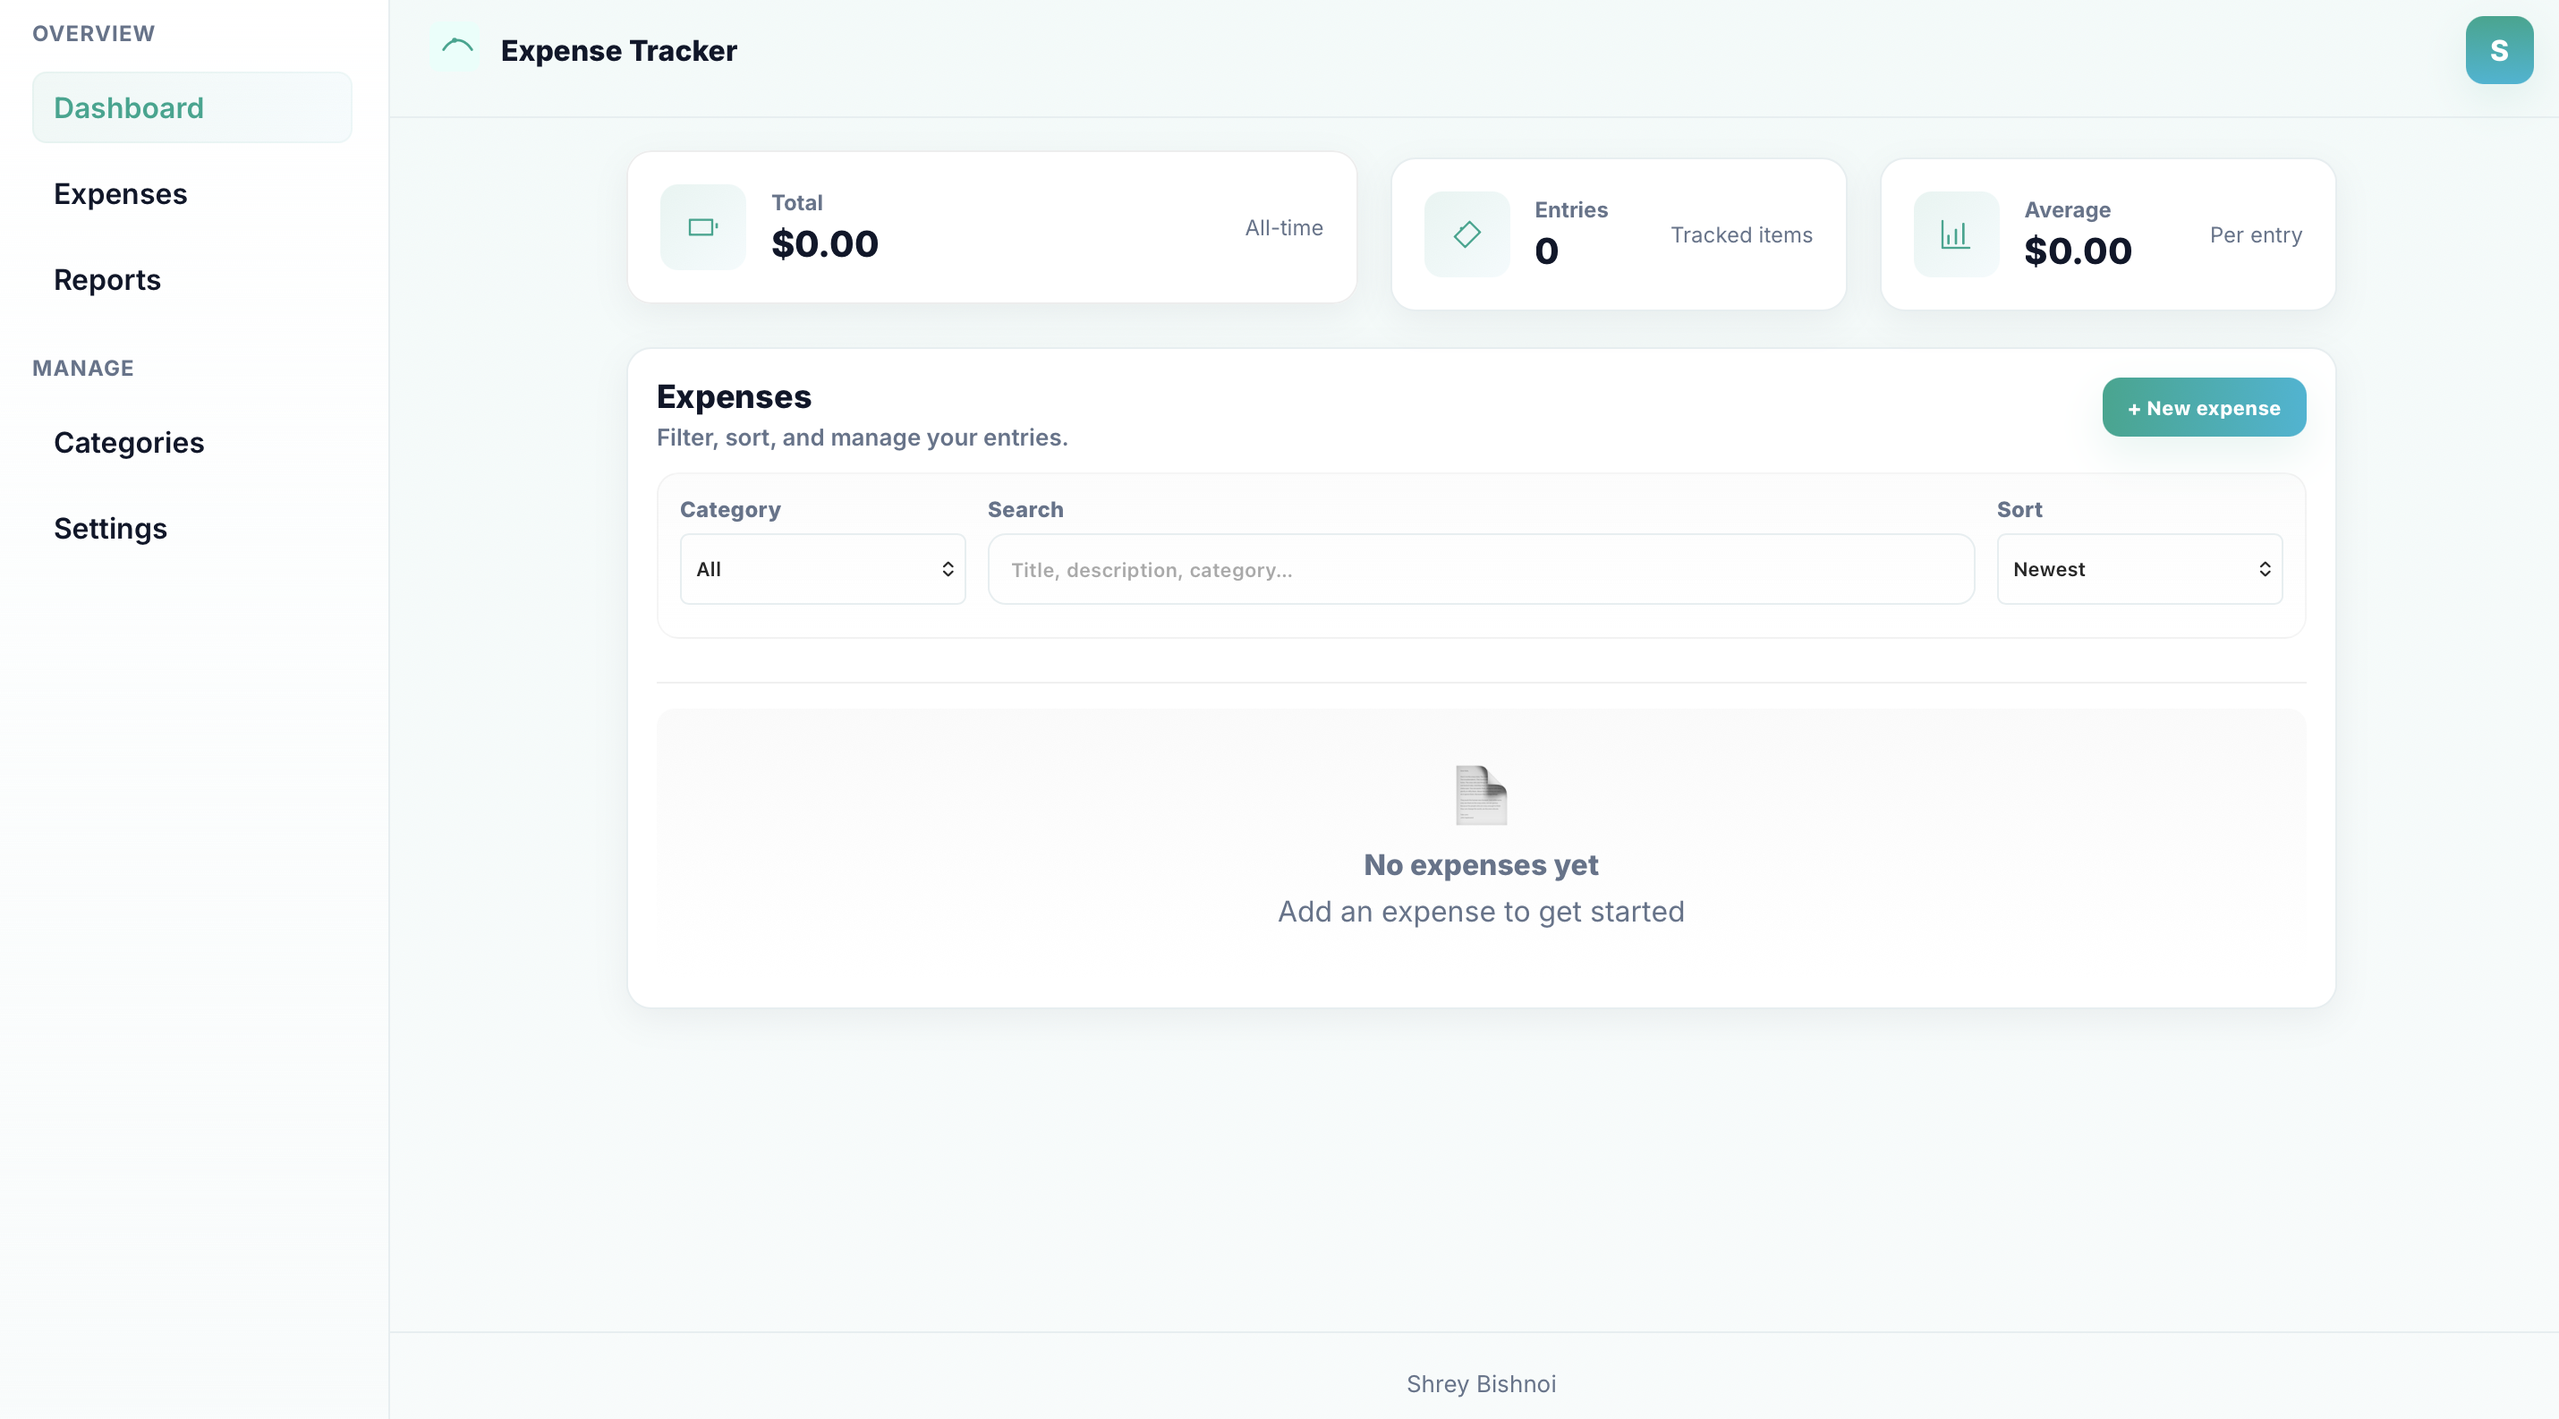
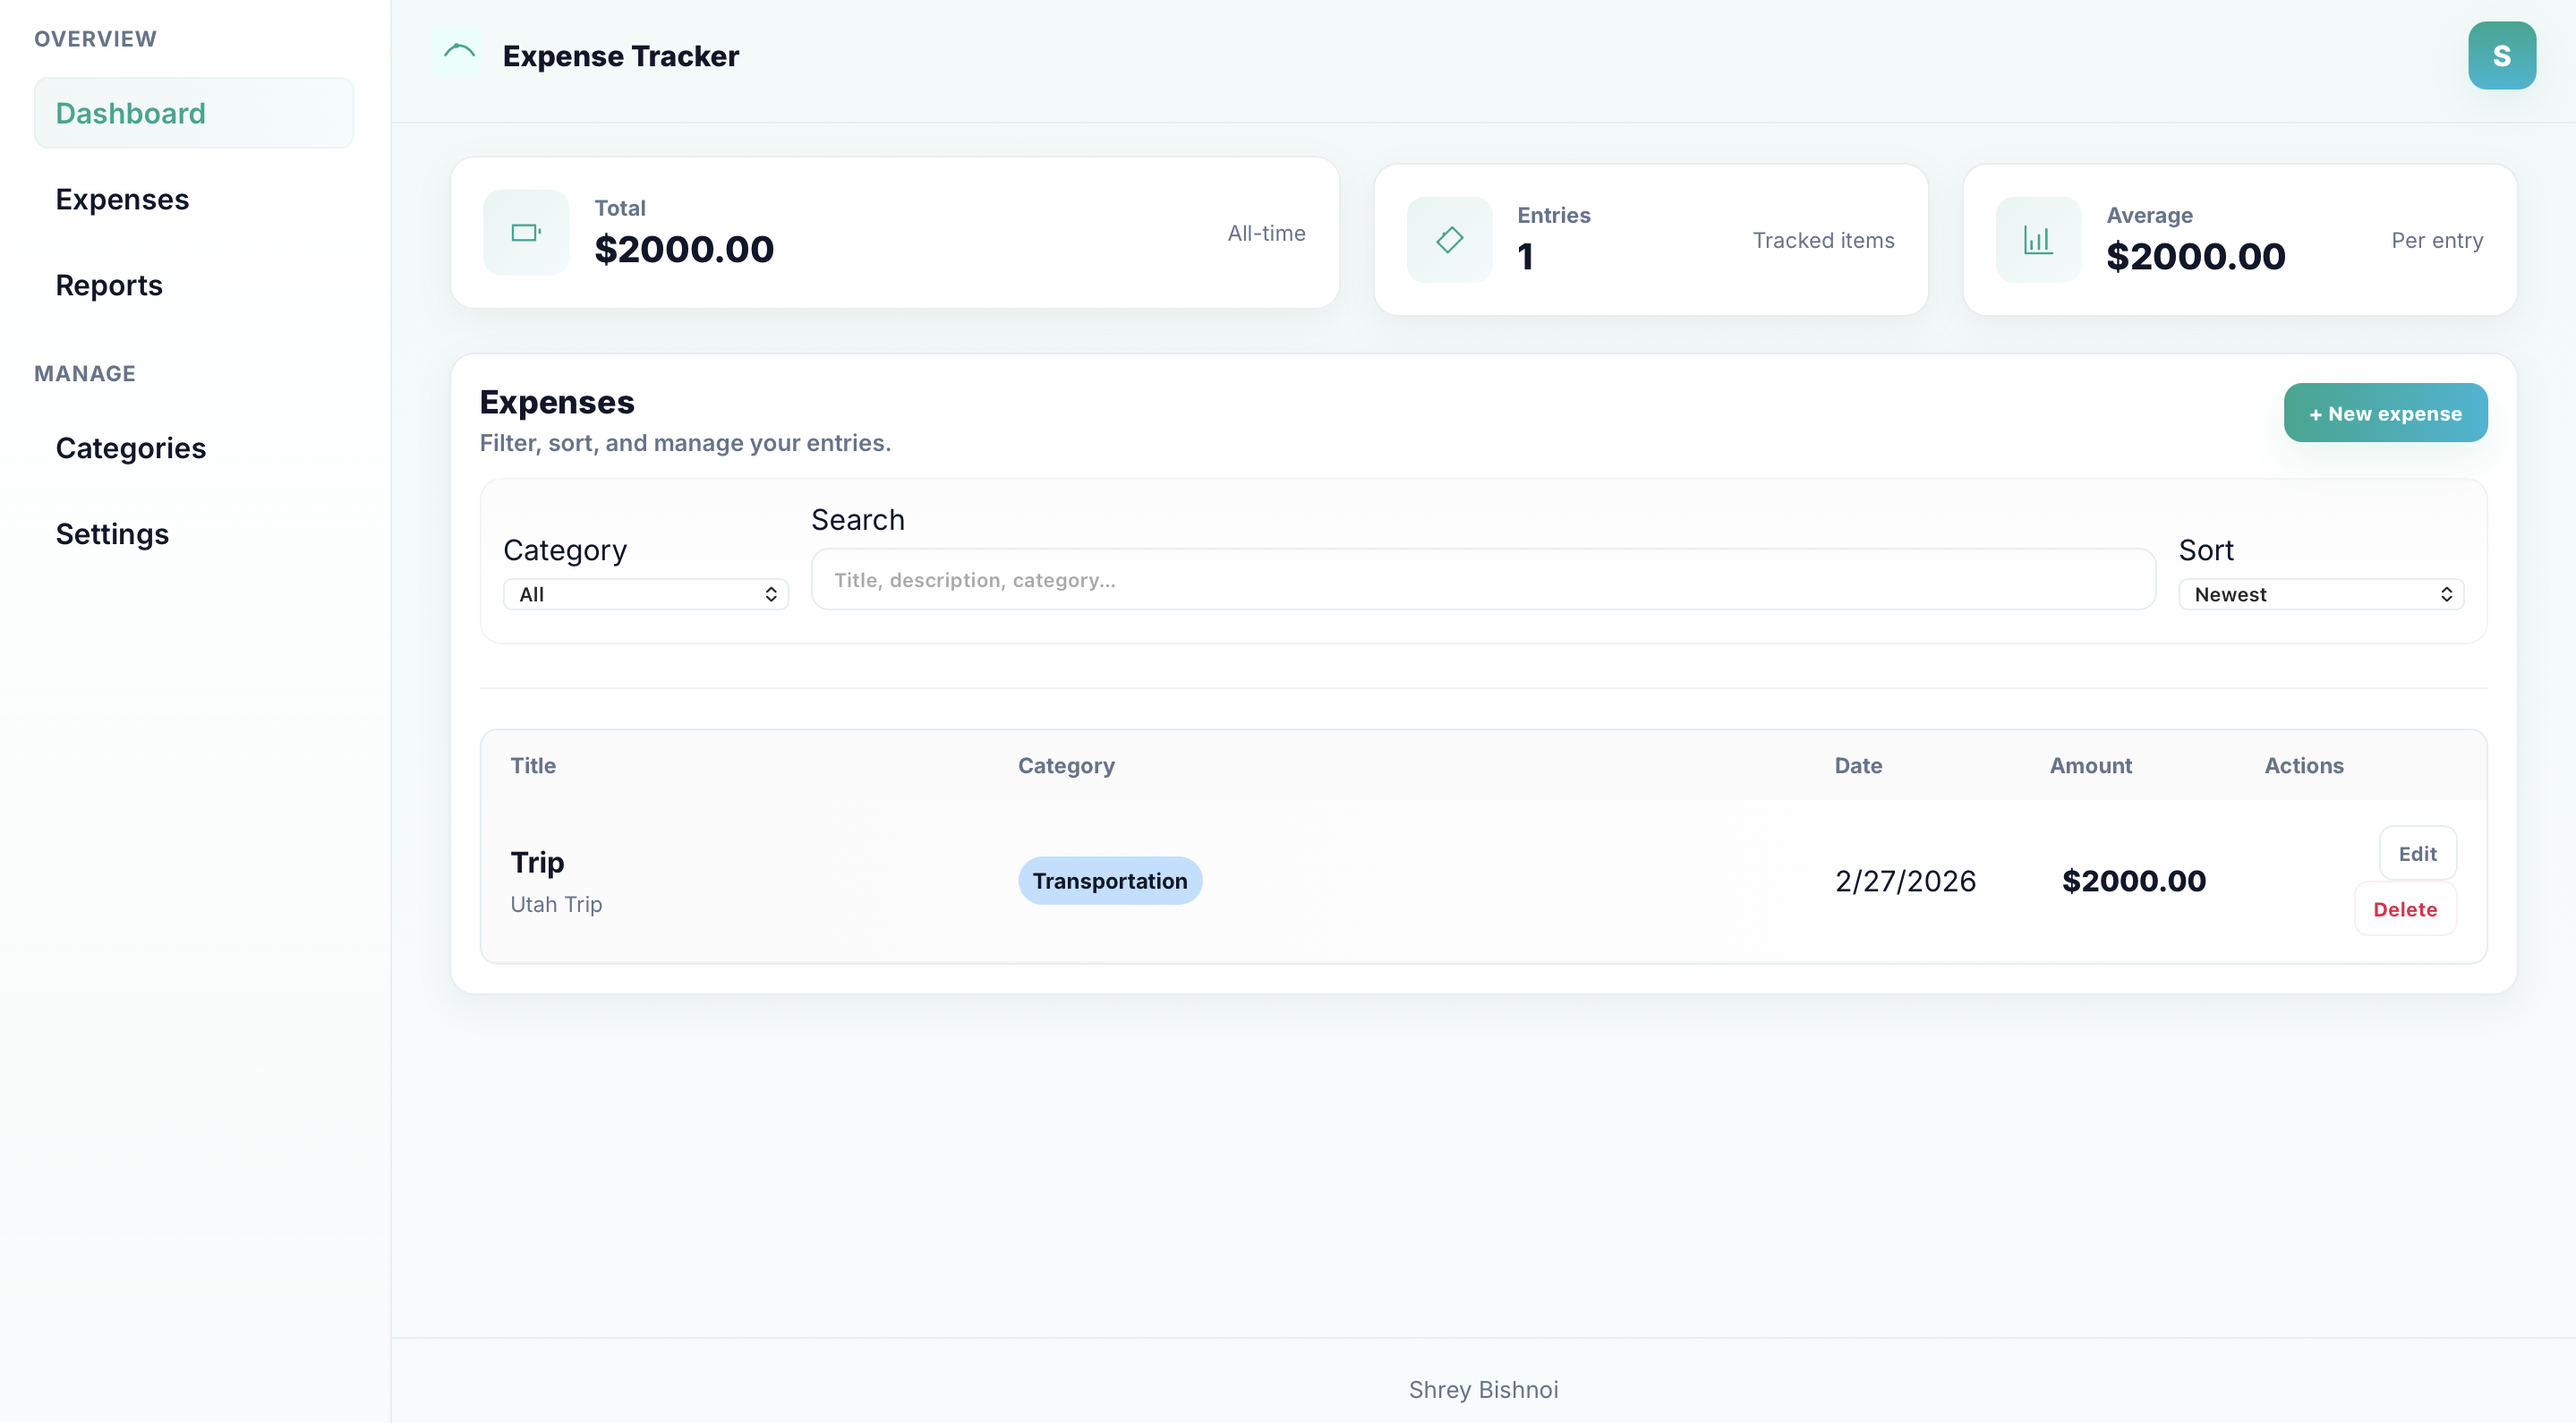
changed ss on readme

diff --git a/README.md b/README.md
@@ -13,7 +13,7 @@ https://shrey-Bish.github.io/expense-tracker/
 
 ### Add Expense
 <p align="center">
-  <img src="./screenshots/dashboard.png" width="700" />
+  <img src="./screenshots/expense.png" width="700" />
 </p>
 
 ---
